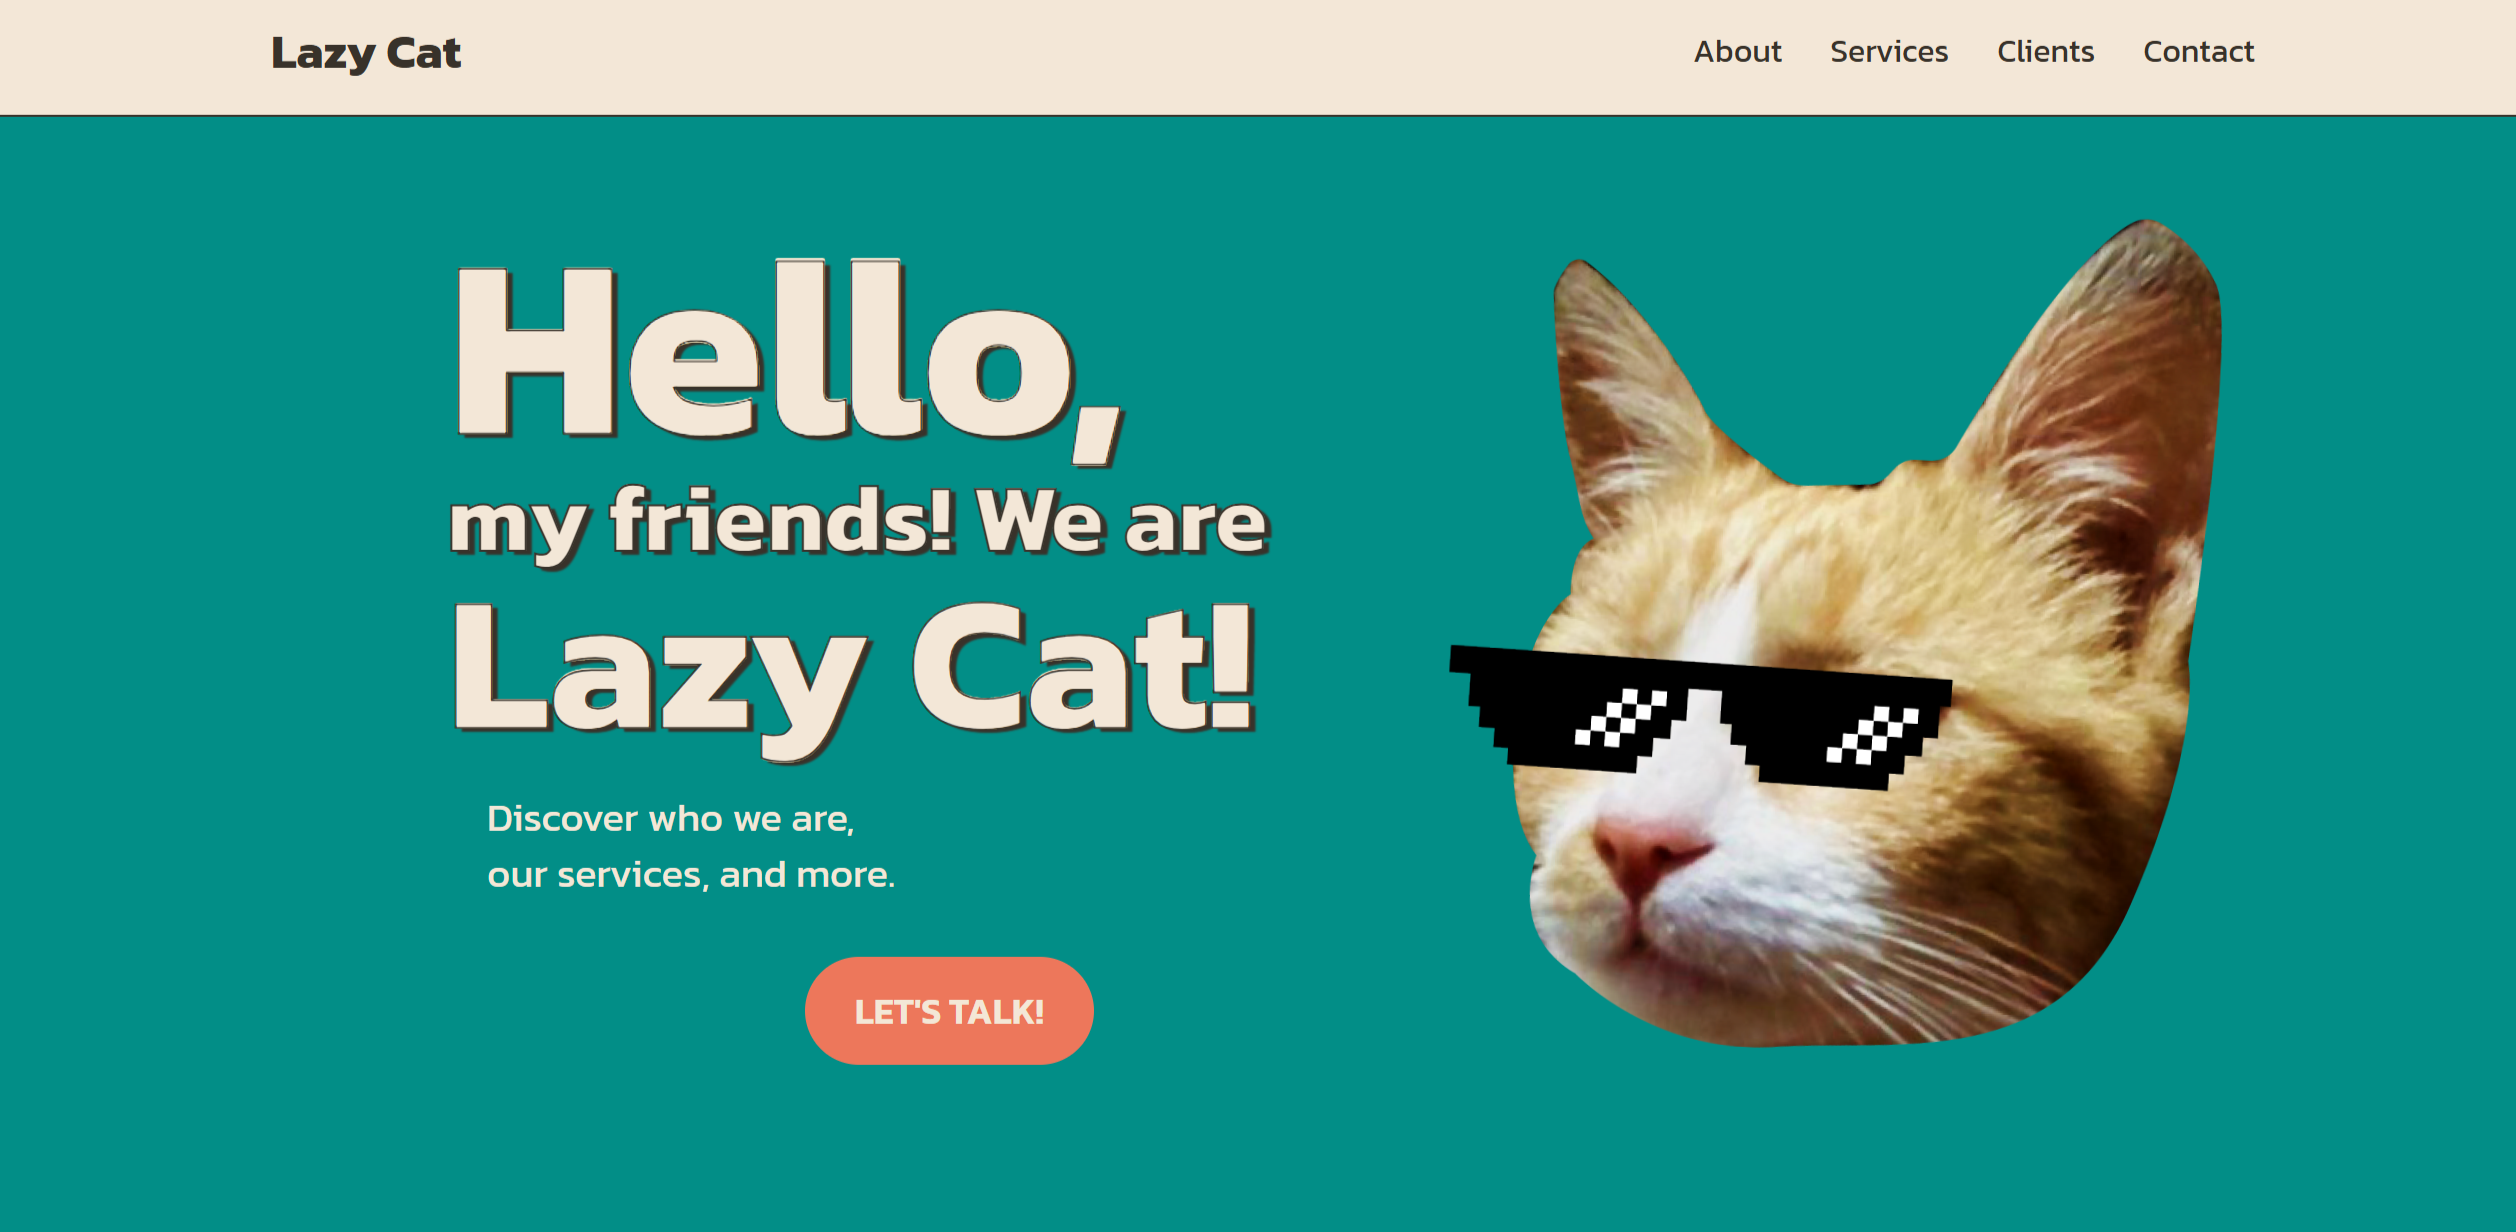
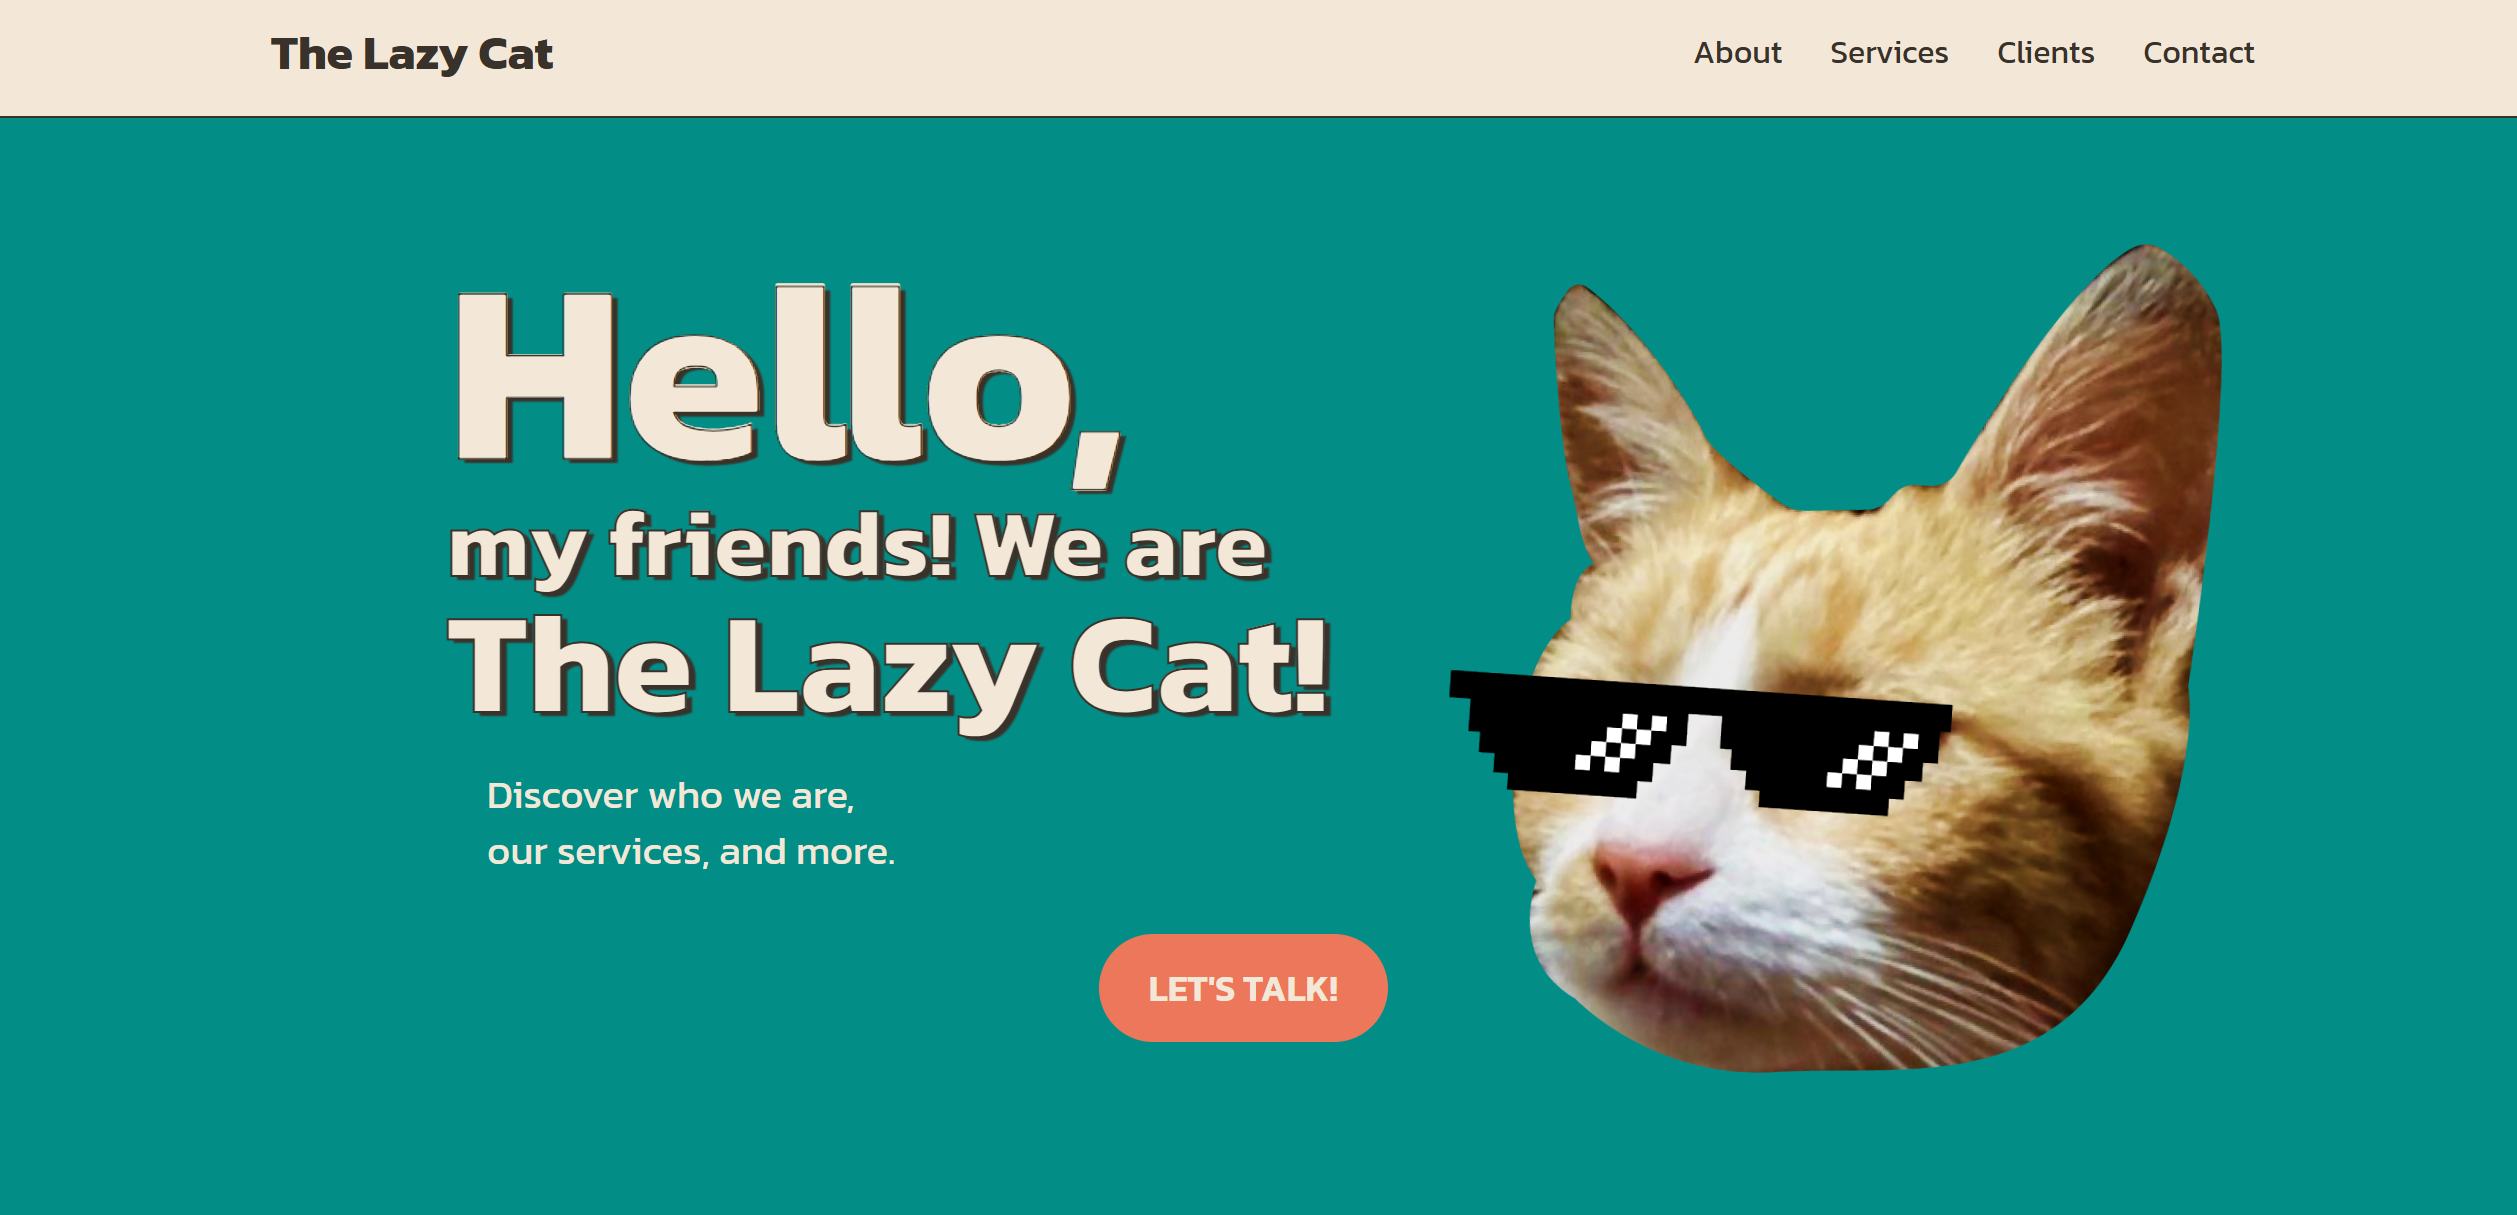
hehe

diff --git a/src/sections/Hero.js b/src/sections/Hero.js
@@ -11,7 +11,7 @@ const Hero = () => {
             <h1 className="text-cream text-stroke text-stroke-choco text-shadow-choco text-8xl lg:text-9xl font-bold mb-4" style={{ lineHeight: '0.1' }}>
               Hello, 
               <span className="text-4xl lg:text-5xl"><br />my friends! We are</span> 
-              <br /><span className="text-7xl lg:text-8xl">Lazy Cat!</span>
+              <br /><span className="text-5xl lg:text-7xl">The Lazy Cat!</span>
             </h1>
             <p className="text-cream text-xl sm:pl-5">
               Discover who we are,

diff --git a/src/components/Footer.js b/src/components/Footer.js
@@ -21,7 +21,7 @@ const Footer = () => {
                     <a href="#clients" className="text-cream hover:text-vitamin mx-2">Clients</a>
                     <a href="#contact" className="text-cream hover:text-vitamin mx-2">Contact</a>
                 </div>
-                <p className="text-sm my-2">&copy; {new Date().getFullYear()} Lazy Cat. All rights reserved.</p>
+                <p className="text-sm my-2">&copy; {new Date().getFullYear()} The Lazy Cat. All rights reserved.</p>
             </div>
         </footer>
 

diff --git a/src/components/Navbar.js b/src/components/Navbar.js
@@ -35,7 +35,7 @@ const Navbar = () => {
         <header className="bg-cream text-choco border-b border-choco sticky top-0 z-50">
             <div className="container-max-w-5xl bg-cream flex justify-between items-center h-16 relative">
                 {/* Logo */}
-                <div className="text-2xl font-bold">Lazy Cat</div>
+                <div className="text-2xl font-bold">The Lazy Cat</div>
 
                 {/* Hamburger Menu (Mobile) */}
                 <div className="sm:hidden">

diff --git a/public/index.html b/public/index.html
@@ -24,7 +24,7 @@
       work correctly both with client-side routing and a non-root public URL.
       Learn how to configure a non-root public URL by running `npm run build`.
     -->
-    <title>Lazy Cat</title>
+    <title>The Lazy Cat</title>
   </head>
   <body>
     <noscript>You need to enable JavaScript to run this app.</noscript>
